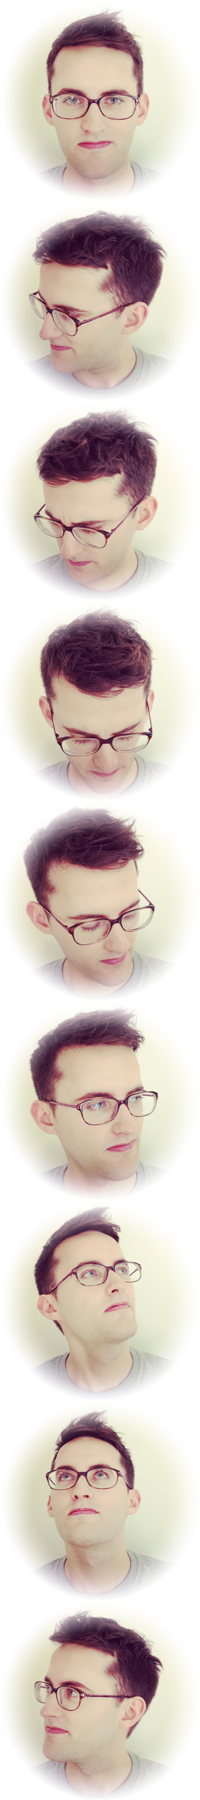
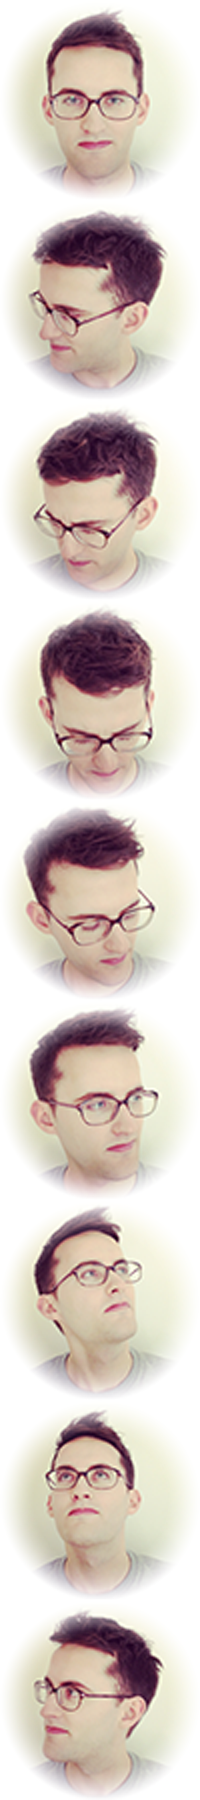
Add manifest. Optimize .png

diff --git a/src/templates/blog-post.js b/src/templates/blog-post.js
@@ -11,11 +11,16 @@ class BlogPostTemplate extends React.Component {
   render() {
     const post = this.props.data.markdownRemark
     const siteTitle = get(this.props, 'data.site.siteMetadata.title')
+    const siteDescription = post.excerpt
     const { previous, next } = this.props.pathContext
 
     return (
       <div>
-        <Helmet title={`${post.frontmatter.title} | ${siteTitle}`} />
+        <Helmet 
+          htmlAttributes={{ lang: 'en' }}
+          meta={[{ name: 'description', content: siteDescription }]}
+          title={`${post.frontmatter.title} | ${siteTitle}`} 
+          />
         <h1>{post.frontmatter.title}</h1>
         <p
           style={{
@@ -77,6 +82,7 @@ export const pageQuery = graphql`
     }
     markdownRemark(fields: { slug: { eq: $slug } }) {
       id
+      excerpt
       html
       frontmatter {
         title

diff --git a/src/pages/index.js b/src/pages/index.js
@@ -9,11 +9,19 @@ import { rhythm } from '../utils/typography'
 class BlogIndex extends React.Component {
   render() {
     const siteTitle = get(this, 'props.data.site.siteMetadata.title')
+    const siteDescription = get(
+      this,
+      'props.data.site.siteMetadata.description'
+    )
     const posts = get(this, 'props.data.allMarkdownRemark.edges')
 
     return (
       <div>
-        <Helmet title={siteTitle} />
+        <Helmet 
+          htmlAttributes={{ lang: 'en' }}
+          title={siteTitle} 
+          meta={[{ name: 'description', content: siteDescription }]}
+          />
         <Bio />
         {posts.map(({ node }) => {
           const title = get(node, 'frontmatter.title') || node.fields.slug

diff --git a/gatsby-config.js b/gatsby-config.js
@@ -16,6 +16,18 @@ module.exports = {
       },
     },
     {
+      resolve: `gatsby-plugin-manifest`,
+      options: {
+        name: `Cameron Maske`,
+        short_name: `CameronMaske`,
+        start_url: `/`,
+        background_color: `#ffffff`,
+        theme_color: `#663399`,
+        display: `minimal-ui`,
+        icon: `src/assets/icon.png`,
+      },
+    },
+    {
       resolve: `gatsby-transformer-remark`,
       options: {
         plugins: [
